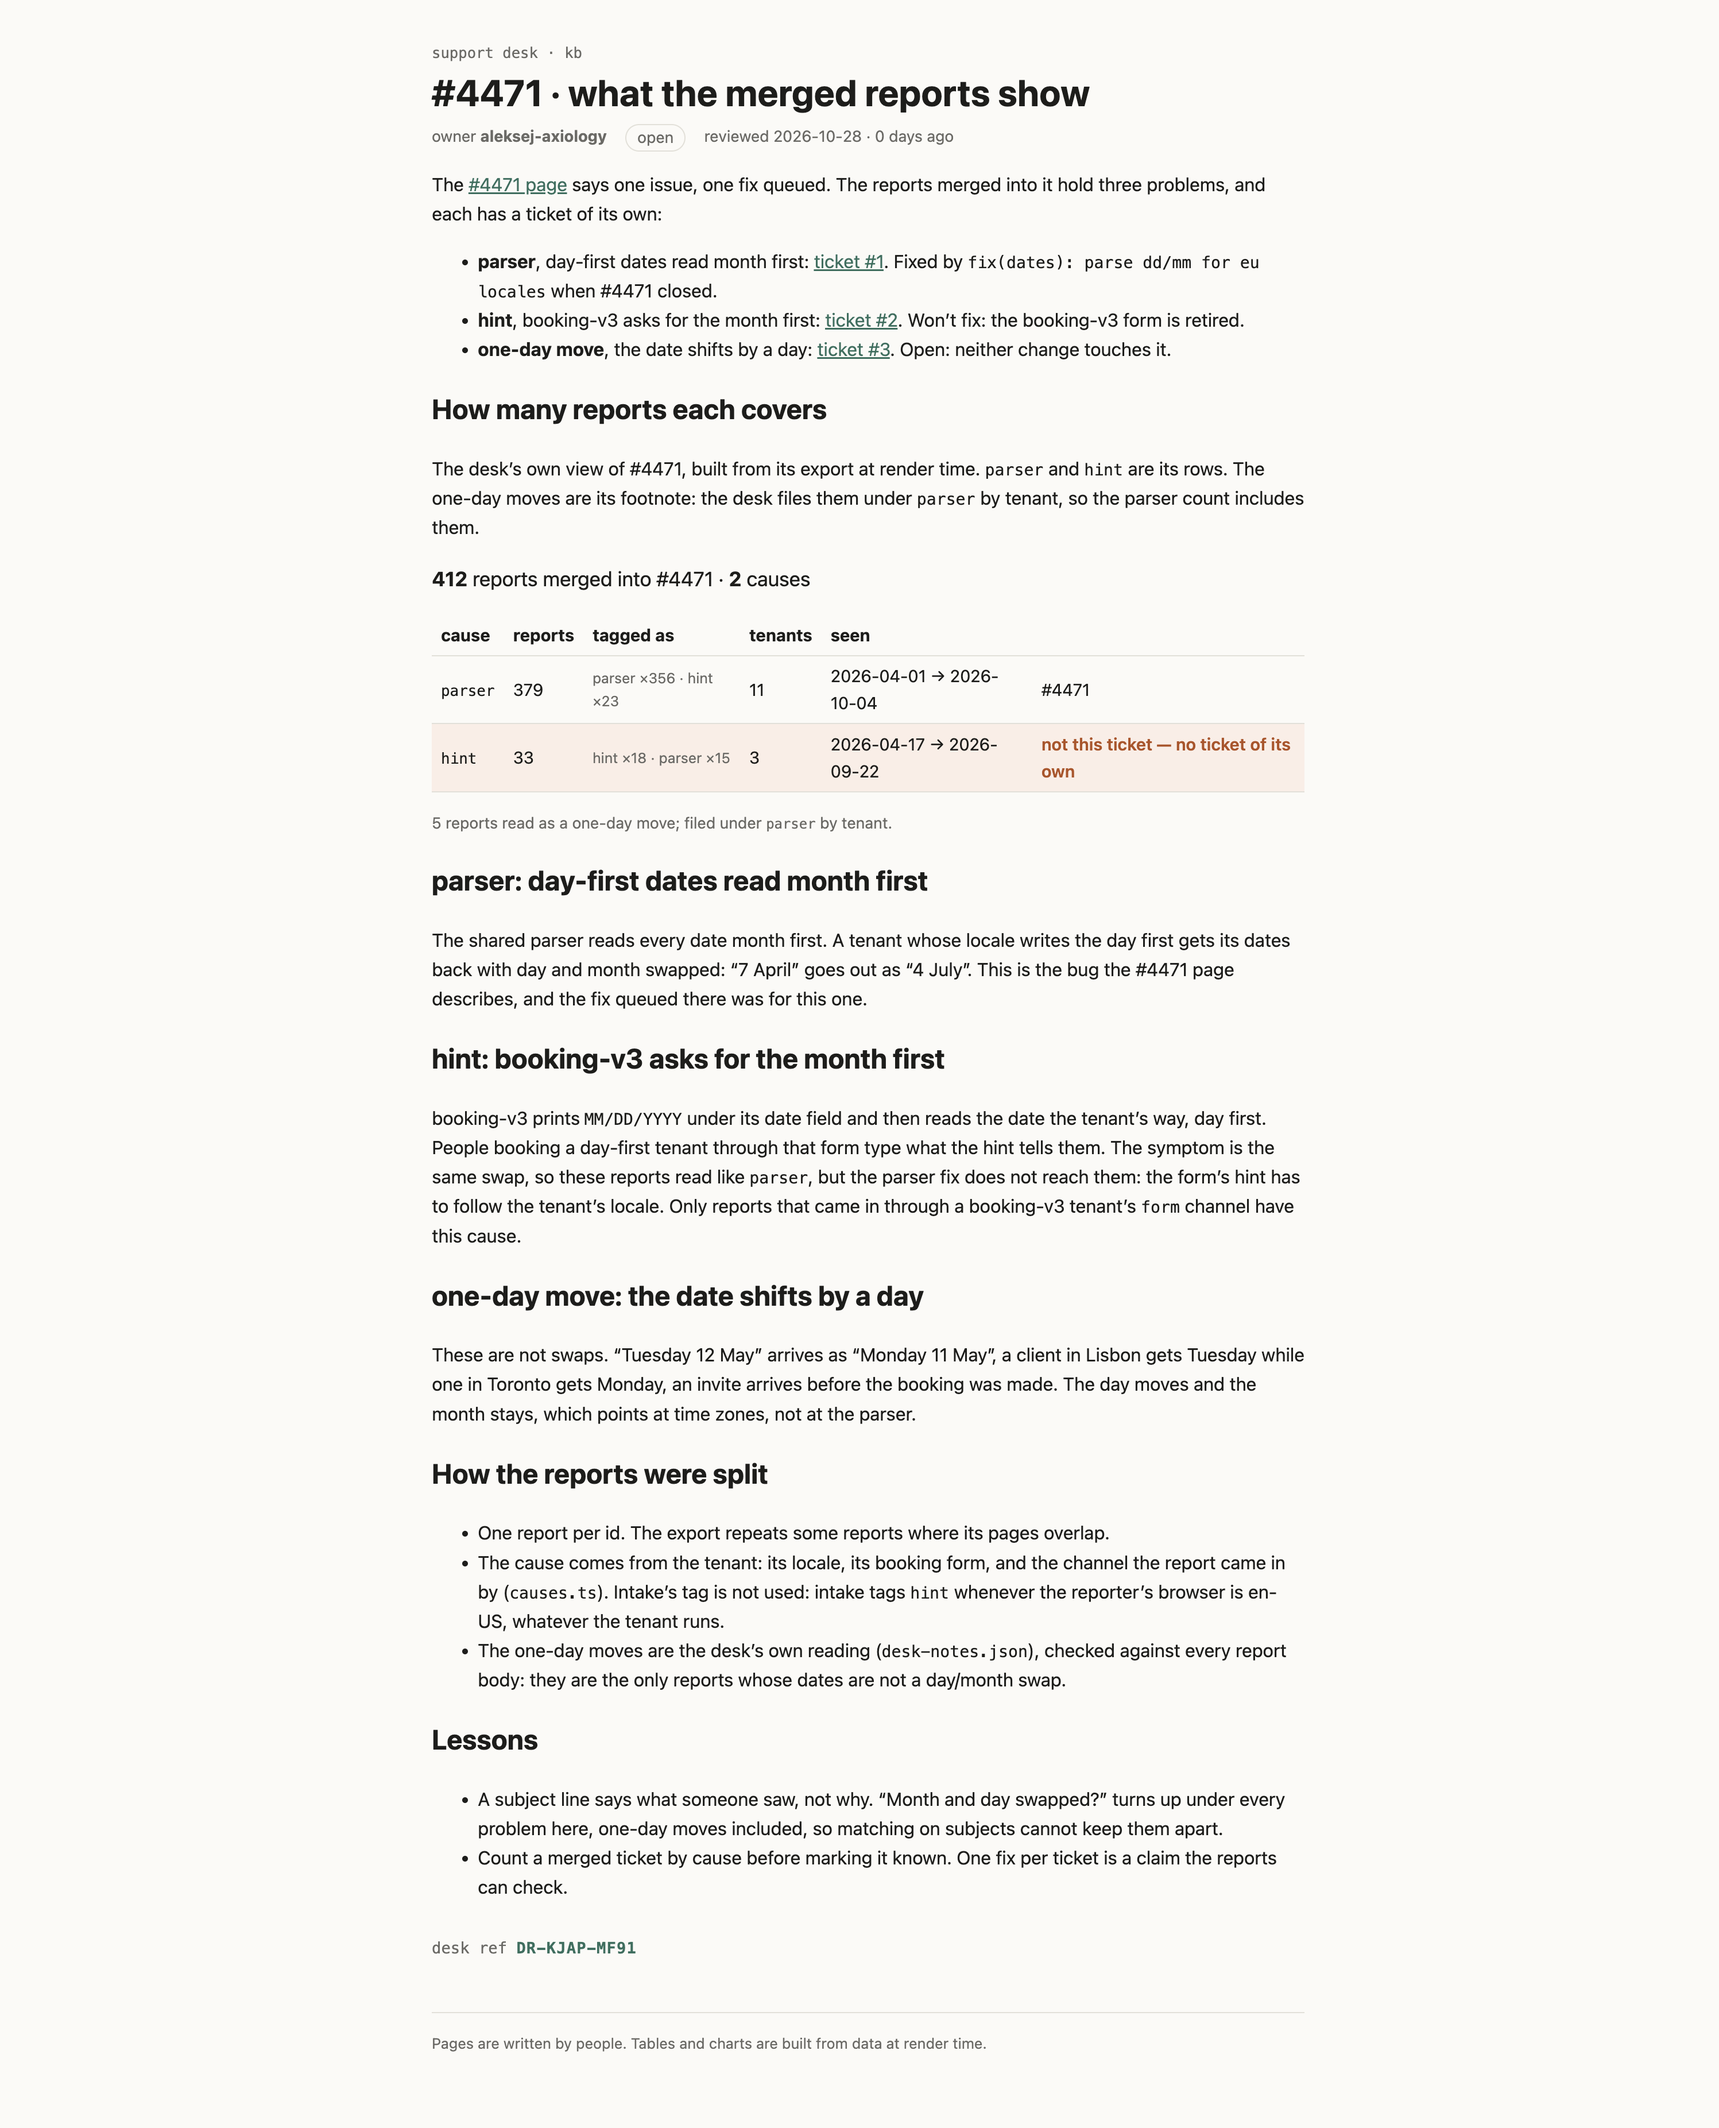
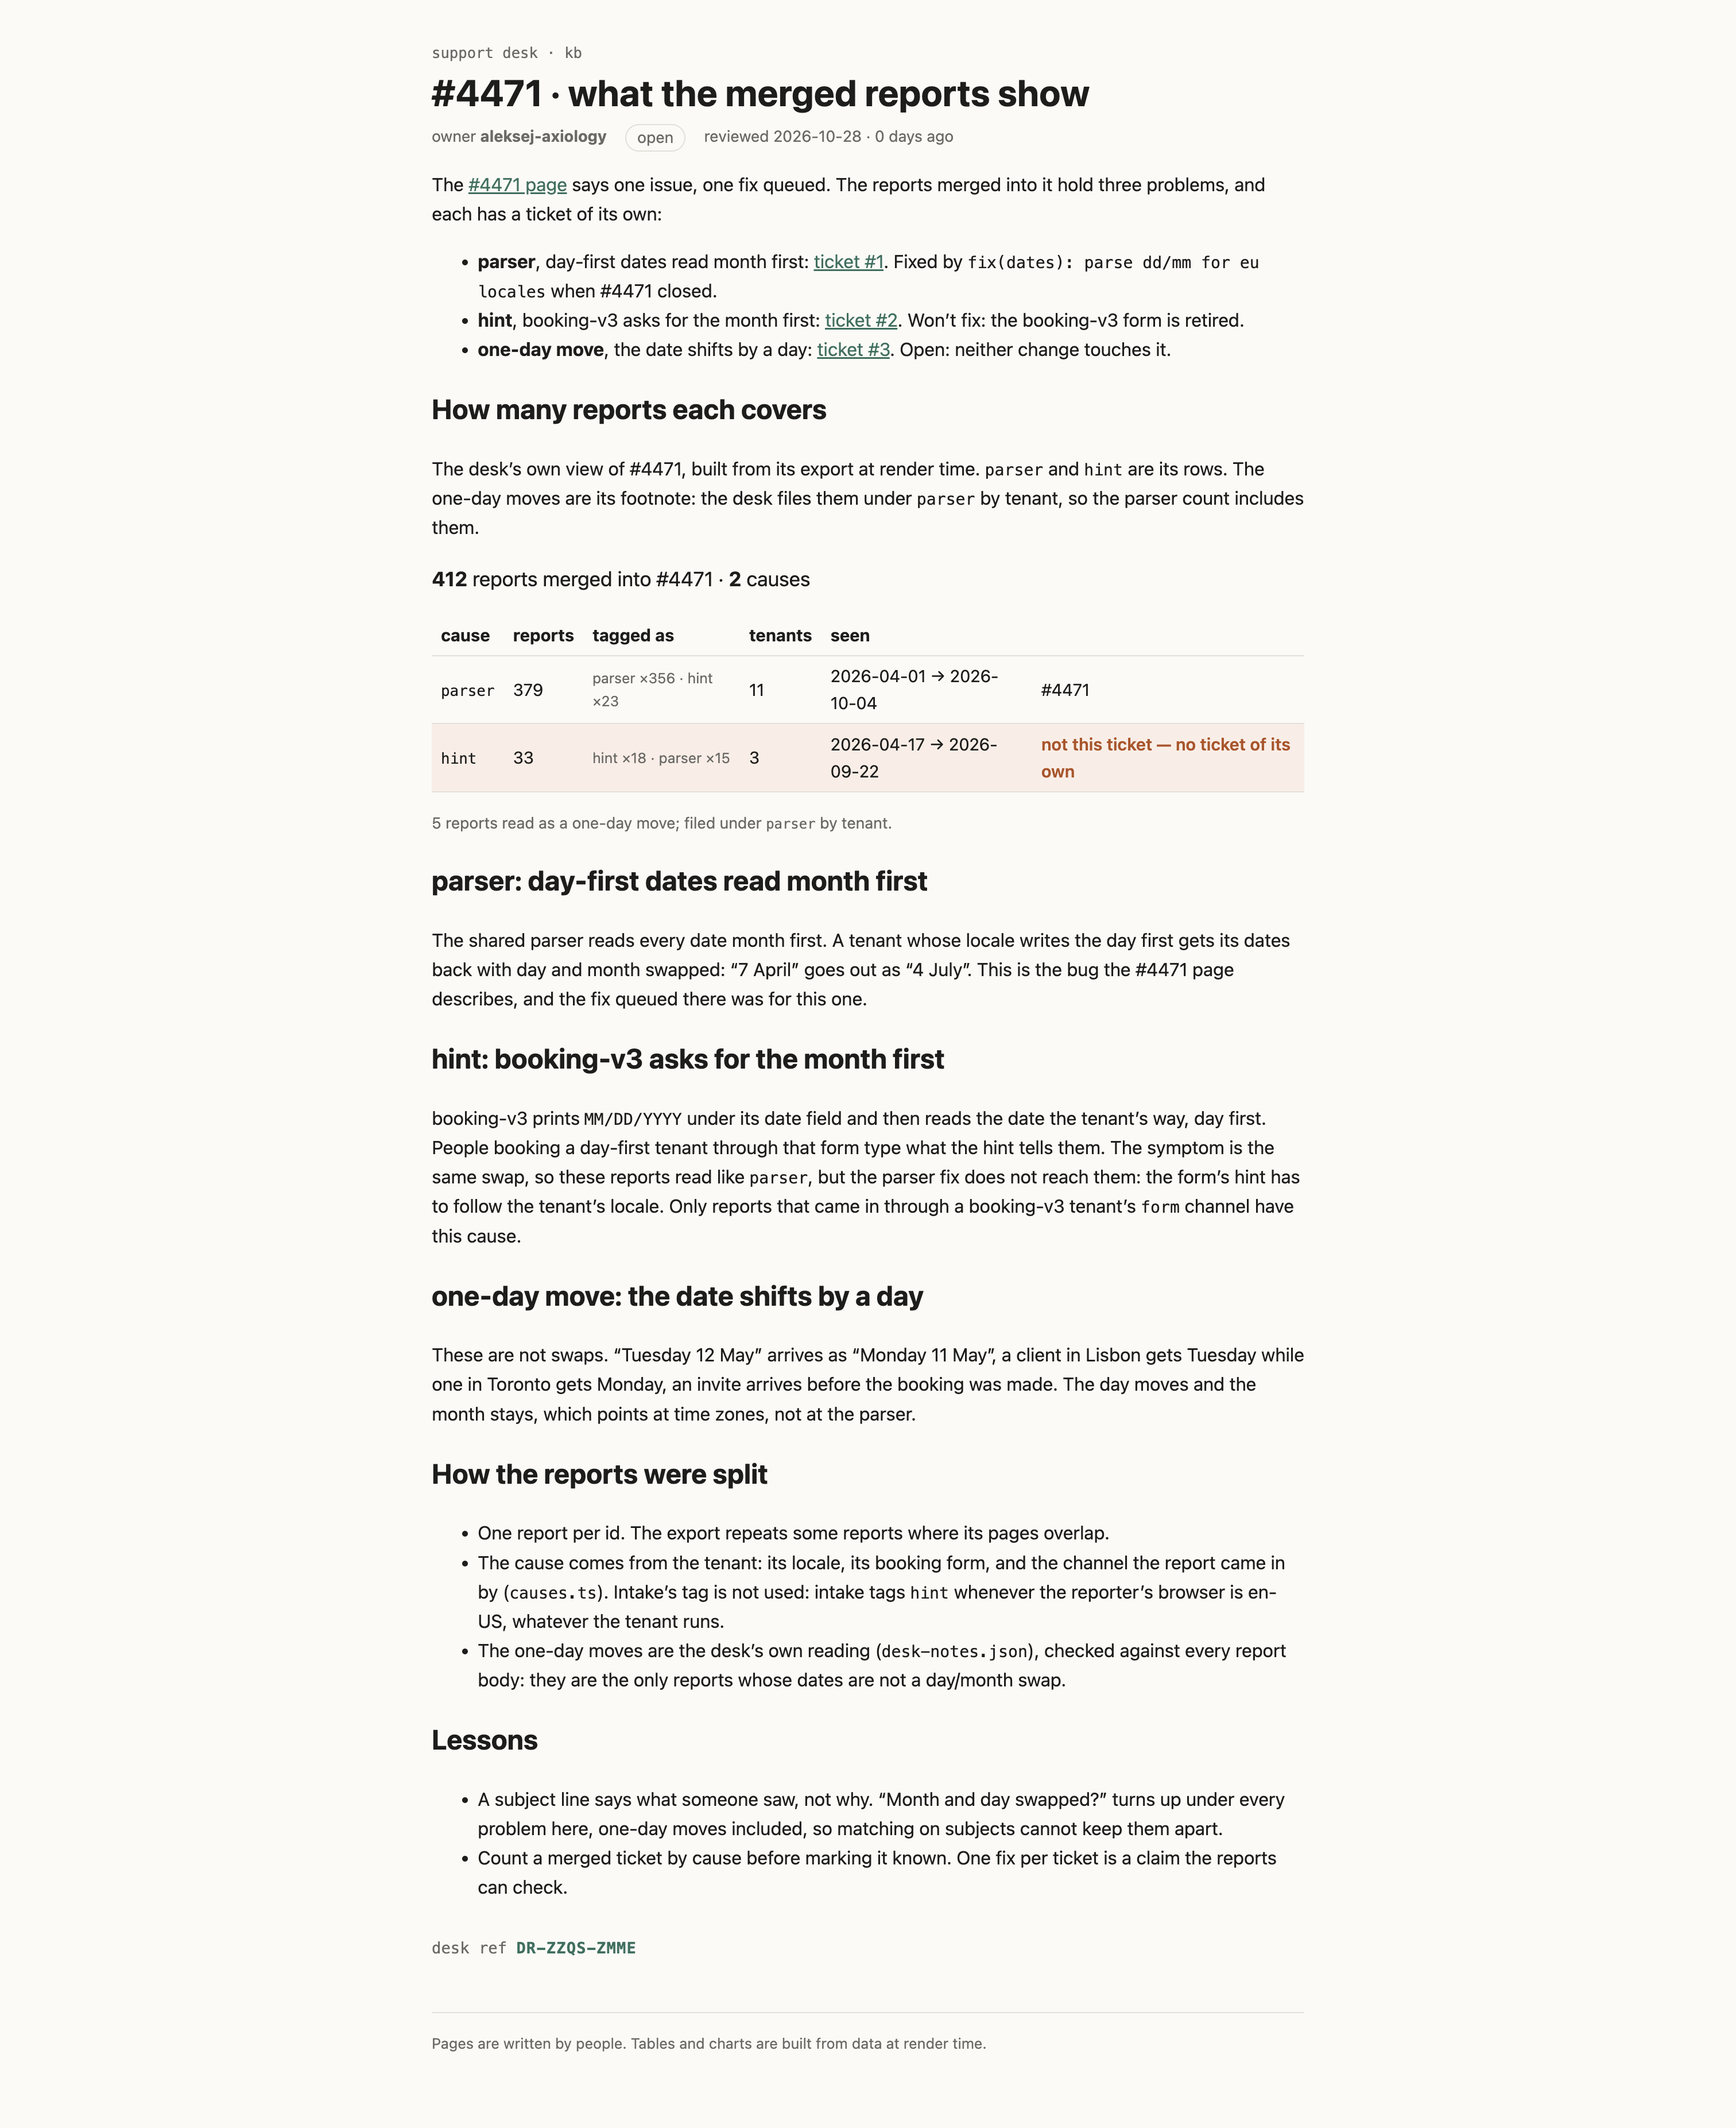
fix(kb): sign the 4471 page with the course ticket

diff --git a/kb/incidents/4471-problems.html b/kb/incidents/4471-problems.html
@@ -35,6 +35,6 @@ in by (<code>causes.ts</code>). Intake’s tag is not used: intake tags <code>hi
 browser is en-US, whatever the tenant runs.</li> <li>The one-day moves are the desk’s own reading (<code>desk-notes.json</code>), checked against every report
 body: they are the only reports whose dates are not a day/month swap.</li></ul> <h2>Lessons</h2> <ul><li>A subject line says what someone saw, not why. “Month and day swapped?” turns up under every
 problem here, one-day moves included, so matching on subjects cannot keep them apart.</li> <li>Count a merged ticket by cause before marking it known. One fix per ticket is a claim the
-reports can check.</li></ul> <!--[--><p class="stamp svelte-5qojh0">desk ref <b class="svelte-5qojh0">DR-KJAP-MF91</b></p><!--]--><!----><!----></main> <footer class="svelte-60g32v">Pages are written by people. Tables and charts are built from data at render time.</footer></div><!----><!----><!----><!--]--> <!--[!--><!--]--><!--]--></div>
+reports can check.</li></ul> <!--[--><p class="stamp svelte-5qojh0">desk ref <b class="svelte-5qojh0">DR-ZZQS-ZMME</b></p><!--]--><!----><!----></main> <footer class="svelte-60g32v">Pages are written by people. Tables and charts are built from data at render time.</footer></div><!----><!----><!----><!--]--> <!--[!--><!--]--><!--]--></div>
   </body>
 </html>
